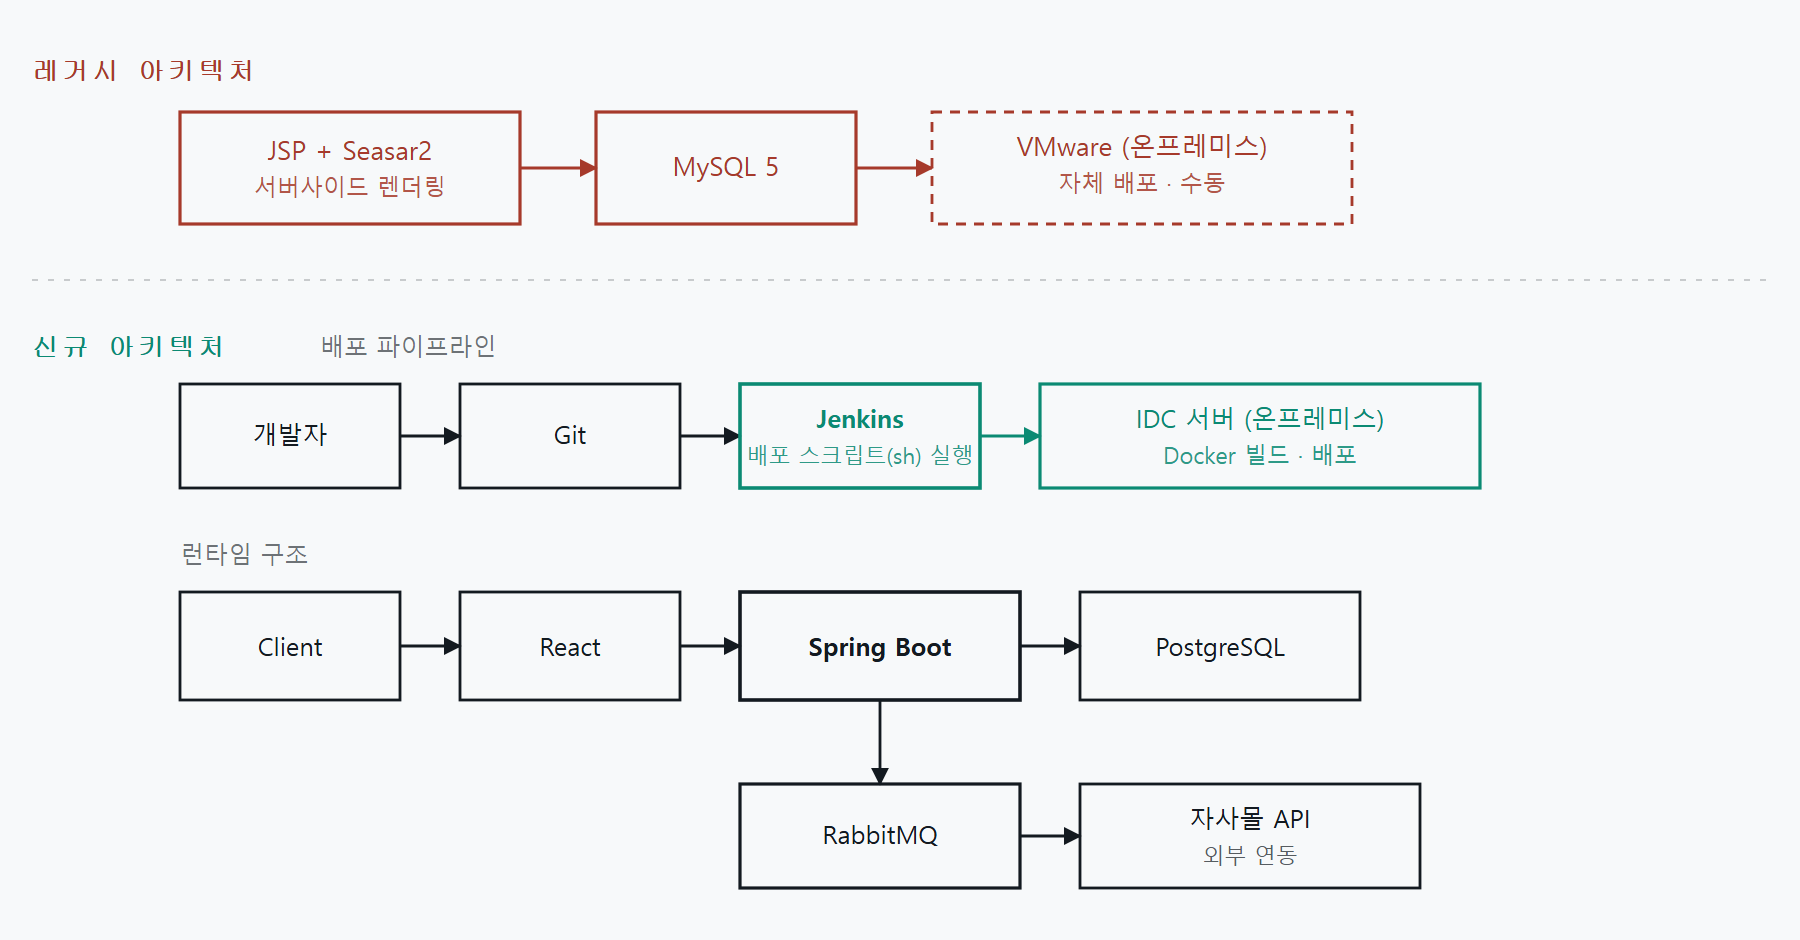
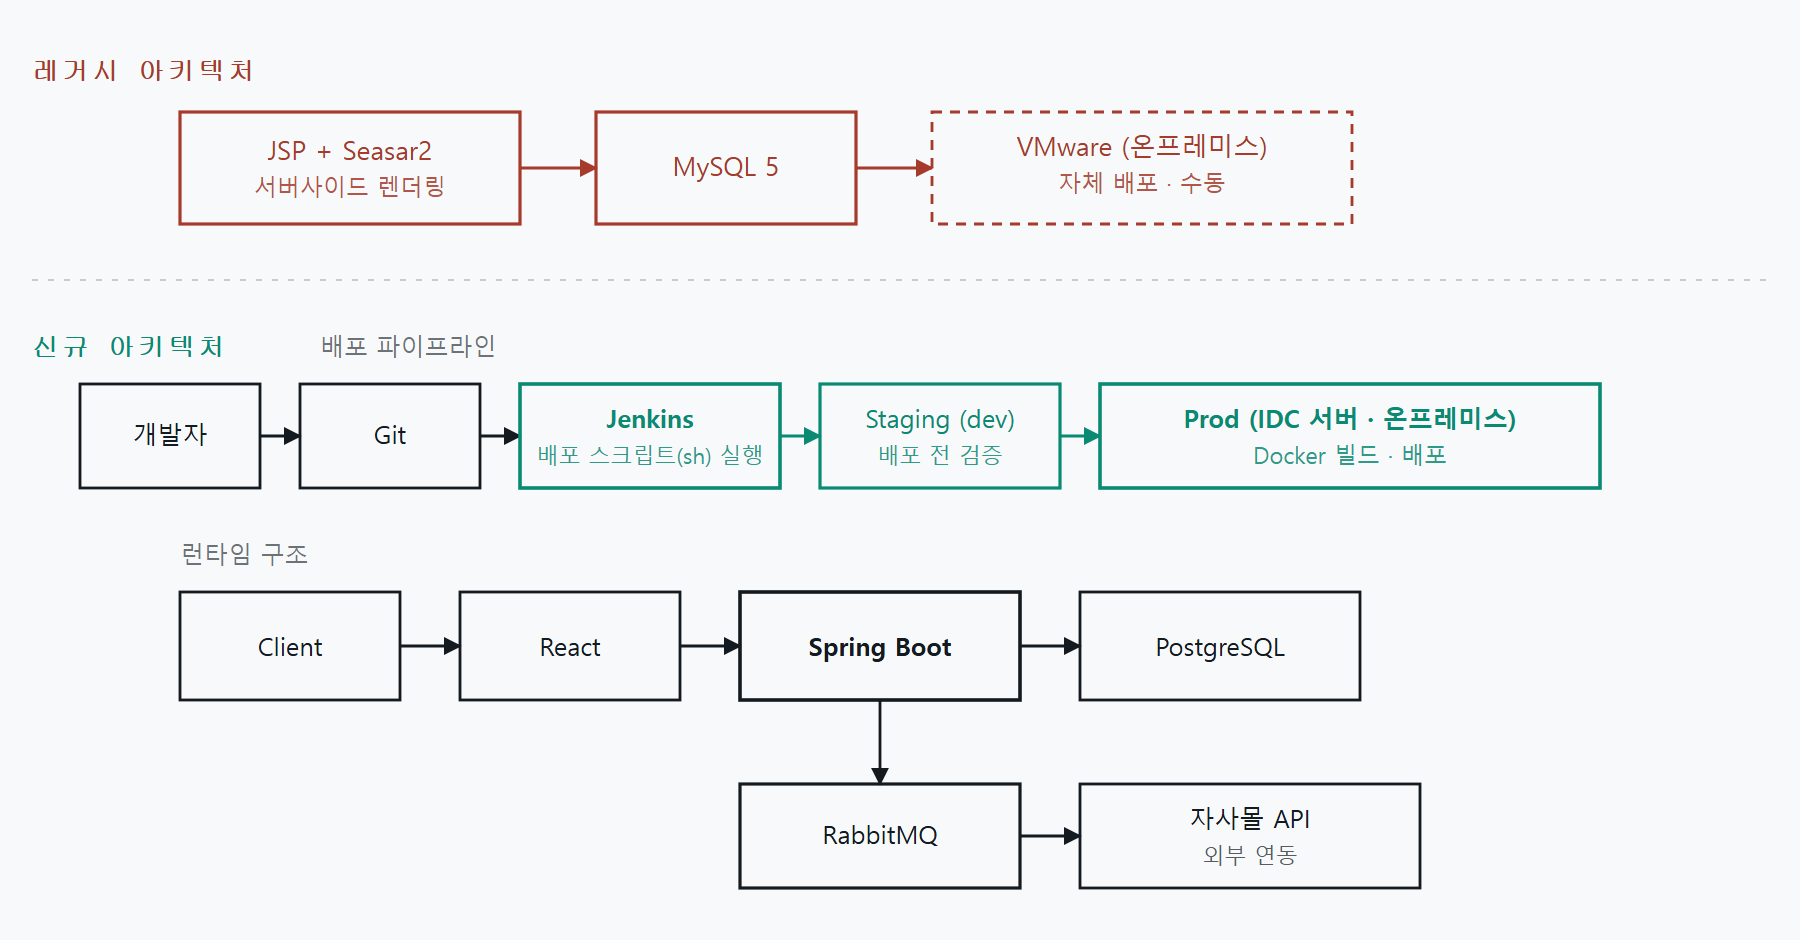
fix(portfolio): 배포 흐름·다이어그램 이해도 개선
- 레거시 마이그레이션 인프라 다이어그램: Jenkins 직행이 아닌 Git→Staging(dev)→Prod(IDC 서버) 배포 파이프라인으로 정정
- 엑셀 업로드 파이프라인/원자적 반영 다이어그램의 비교 차트 제거, 단선 흐름 위주로 단순화

diff --git a/src/portfolio/data.ts b/src/portfolio/data.ts
@@ -116,9 +116,9 @@ export const portfolio = {
       diagram: {
         src: '/projects/legacy-infra-architecture.svg',
         pdfSrc: '/projects/legacy-infra-architecture.png',
-        alt: '종전에는 JSP와 Seasar2가 MySQL 5를 거쳐 VMware 온프레미스 환경에 수동으로 배포됐고, 이후에는 Git과 Jenkins를 거쳐 IDC 온프레미스 서버에 자동 빌드·배포되며, React와 Spring Boot가 PostgreSQL과 통신하고 Spring Boot가 RabbitMQ를 거쳐 자사몰 API와 연동하는 인프라 구성 비교도',
+        alt: '종전에는 JSP와 Seasar2가 MySQL 5를 거쳐 VMware 온프레미스 환경에 수동으로 배포됐고, 이후에는 Git과 Jenkins를 거쳐 Staging(dev)에서 먼저 검증한 뒤 IDC 온프레미스 서버(Prod)에 자동 빌드·배포되며, React와 Spring Boot가 PostgreSQL과 통신하고 Spring Boot가 RabbitMQ를 거쳐 자사몰 API와 연동하는 인프라 구성 비교도',
         caption:
-          '개발부터 배포까지 Git·Jenkins로 자동화하고, 클라이언트 요청 흐름과 외부 연동(RabbitMQ)을 분리했습니다. 인프라는 그대로 온프레미스(VMware→IDC)를 유지하면서, 수동 배포에서 자동 빌드·배포 파이프라인으로 바꿨습니다.',
+          '개발부터 배포까지 Git·Jenkins로 자동화하고, 클라이언트 요청 흐름과 외부 연동(RabbitMQ)을 분리했습니다. 인프라는 그대로 온프레미스(VMware→IDC)를 유지하면서, 수동 배포 대신 Git→Staging(dev) 검증→Prod(IDC 서버) 순으로 넘어가는 자동 빌드·배포 파이프라인으로 바꿨습니다.',
       },
       problem:
         '입사 3개월 차에 타사에서 인계받은 노후 소스코드(Java 1.6·Seasar2·MySQL 5)로 레거시 시스템 개발을 맡았는데, 신규 기능을 추가하려 할 때마다 노후된 프레임워크의 한계에 부딪혔습니다. 이대로는 안 되겠다고 판단해 직접 마이그레이션을 제안하고 PoC로 실현 가능성을 검증한 뒤 전환을 주도했습니다. Seasar2는 서버사이드 렌더링 구조라 화면단을 React로 완전히 분리하는 아키텍처 전환이 필요했고, 기존과 똑같이 동작해야 한다는 제약 속에서 기능 하나 놓치지 않고 옮기는 게 과제였습니다.',
@@ -155,7 +155,7 @@ export const portfolio = {
           items: [
             {
               label: 'Jenkins · Docker 도입',
-              desc: '빌드·배포 로직을 셸 스크립트(sh)에 정리하고 Docker로 감싸, Jenkins가 이 스크립트를 실행해 IDC 서버에 한 번에 빌드·배포하는 파이프라인을 구성했습니다. 수동으로 진행하던 배포가 자동화되며 소요 시간이 20분에서 5분으로 줄었습니다.',
+              desc: '빌드·배포 로직을 셸 스크립트(sh)에 정리하고 Docker로 감싸, Jenkins가 이 스크립트를 실행해 Staging(dev)에 먼저 배포·검증한 뒤 Prod(IDC 서버)로 넘기는 파이프라인을 구성했습니다. 운영 서버로 바로 배포하지 않고 검증 단계를 하나 거치도록 한 것으로, 수동으로 진행하던 배포가 자동화되며 소요 시간이 20분에서 5분으로 줄었습니다.',
             },
           ],
         },
@@ -354,25 +354,25 @@ export const portfolio = {
       org: '유통 상품 관리 시스템 고도화',
       techStack: ['Java', 'Spring Boot', 'PostgreSQL'],
       summary: [
-        '스프레드시트를 통째로 여는 대신 행 단위로 읽고 1,000건씩 묶어 저장해 메모리 사용량을 줄였습니다.',
+        '엑셀 파일을 통째로 여는 대신 행 단위로 읽고 1,000건씩 묶어 저장해 메모리 사용량을 줄였습니다.',
         '부분 성공을 허용하지 않는 전량 원복 정책으로 반쯤 갱신된 상태를 근본적으로 차단했습니다.',
         '검증을 반영 앞으로 옮긴 앞단 게이트로, 값 하나의 오류가 전체를 무산시키는 정책의 대가를 상쇄했습니다.',
       ],
       problem:
-        '엑셀 업로드는 마스터 데이터를 반영하는 작업이라 부분 성공을 허용하면 반쯤 갱신된 상태가 남고, 무엇이 반영됐는지 알 수 없어 재실행도 위험했습니다. 그렇다고 스프레드시트를 통째로 객체로 열면 행 수에 비례해 메모리를 먹는 구조가 됩니다. 유실 없는 전량 반영과 메모리 사용량을 동시에 잡는 파이프라인을 설계하는 게 과제였습니다.',
+        '대량의 상품 데이터를 엑셀로 업로드할 때 두 가지 문제가 있었습니다. 업로드된 엑셀 파일을 통째로 메모리에 올려서 처리하다 보니 행 수가 많을수록 메모리를 많이 썼고, 업로드 중간에 일부 행만 저장된 채로 실패하면 어디까지 반영됐는지 알 수 없어 재실행도 위험했습니다. 메모리를 적게 쓰면서도, 실패하면 안전하게 되돌릴 수 있는 업로드 파이프라인을 만드는 게 과제였습니다.',
       solutionGroups: [
         {
           title: '메모리 사용량 최소화',
           items: [
             {
               label: '행 단위 읽기, 묶음 단위 쓰기',
-              desc: '스프레드시트를 통째로 객체로 열면 행 수에 비례해 메모리를 먹습니다. 대신 행이 읽힐 때마다 콜백을 받아 처리하고, 저장은 1,000건씩 묶어 넣어 순서를 보존하면서 진행률도 표시합니다. 다만 저장 전 전체 검증이 필요해 파싱 결과 자체는 아직 전량 메모리에 모이는데, 이 지점을 숨기지 않고 그대로 남겨둔 개선 여지로 표시했습니다.',
+              desc: '이전에는 엑셀 파일 전체를 한 번에 객체로 만들어 메모리에 올렸는데, 행 수가 많을수록 메모리를 더 많이 썼습니다. 그래서 파일을 한 번에 다 읽지 않고, 행을 하나씩 읽을 때마다 그 행의 값을 정의된 컬럼에 맞게 매칭하고 형식을 변환하는 처리를 바로 진행하도록 바꿨습니다. 저장도 한 건씩 하지 않고 1,000건씩 묶어서 진행해, 순서를 유지하면서 진행률도 보여줍니다. 다만 저장 전에 전체 데이터를 한 번 더 검증해야 해서 그 순간에는 파싱 결과 전체가 메모리에 모이는데, 이 부분은 숨기지 않고 앞으로 개선할 지점으로 남겨뒀습니다.',
               diagram: {
                 src: '/projects/excel-pipeline-memory.svg',
                 pdfSrc: '/projects/excel-pipeline-memory.png',
-                alt: '엑셀 업로드 파이프라인 5단계와 각 단계에서 동시에 메모리에 올라가는 양. 읽기 단계는 행 하나씩이라 얕지만 파싱 결과 누적부터 저장까지는 전량을 보유한다',
+                alt: '엑셀 업로드 파이프라인 5단계 — 파일 수신·저장, 행 단위 읽기, 헤더 매칭·변환, 검증, 1,000건 묶음 저장 순서로 진행된다',
                 caption:
-                  '읽기와 쓰기는 이미 묶음 단위입니다. 남은 것은 가운데 구간 — 읽으면서 바로 저장하면 보유량이 상수가 되지만, 지금은 엑셀 순서 보존과 저장 전 전체 검증 때문에 파싱 결과를 전량 들고 있습니다.',
+                  '파일을 통째로 읽지 않고 행 단위로 읽어 바로 처리하고, 저장만 1,000건씩 묶어서 진행률을 보여줍니다.',
               },
             },
           ],
@@ -382,13 +382,13 @@ export const portfolio = {
           items: [
             {
               label: '전량 반영 아니면 전량 원복',
-              desc: '부분 성공을 허용하면 반쯤 갱신된 상태가 남고, 재실행해도 무엇이 이미 반영됐는지 알 수 없습니다. 그래서 전량 원복 정책으로 고정했는데, 그 대가로 값 하나의 타입 오류가 전량을 무산시키게 됩니다. 검증을 반영보다 앞(트랜잭션 밖)에 두는 앞단 게이트로 이 대가를 상쇄해, 해당 행만 반려하고 한 행 때문에 전량이 무산되지 않게 했습니다. 원복 전에는 실패 사유를 로그로 남겨 원인을 추적할 수 있게 했습니다.',
+              desc: '예를 들어 1,000행 중 700행까지 저장되고 701번째 행에서 실패하면, 어디까지 반영됐는지 알 수 없어 재실행 시 이미 저장된 700행이 중복으로 다시 들어갈 위험이 있습니다. 그래서 하나라도 실패하면 지금까지 반영한 것까지 전부 되돌려 업로드 전 상태로 완전히 되돌아가는 전량 원복 정책으로 고정했습니다. 이러면 몇 번을 재실행해도 항상 "0건 반영" 상태에서 다시 시작하니 안전합니다. 다만 그 대가로 999개 행이 멀쩡해도 1개 행의 타입 오류 때문에 999개까지 전부 롤백됩니다. 그래서 저장을 시도하기 전에 타입·형식을 미리 검증하는 단계를 앞에 둬서, 문제 있는 행은 저장 시도 자체를 하지 않고 그 행만 반려하도록 했습니다. 저장(트랜잭션)에는 이미 검증을 통과한 행만 들어가므로, 가장 흔한 실패 원인은 트랜잭션에 들어가기도 전에 걸러지고 전량 원복 정책은 그대로 유지됩니다. 원복 전에는 실패 사유를 로그로 남겨 원인을 추적할 수 있게 했습니다.',
               diagram: {
                 src: '/projects/excel-atomic-revert.svg',
                 pdfSrc: '/projects/excel-atomic-revert.png',
-                alt: '부분 갱신을 허용하면 반쯤 갱신된 상태가 남고 전량 원복은 직전 상태를 보존한다는 비교. 아래에는 값 하나의 타입 오류가 전량을 무산시키던 문제를 앞단 검증 게이트로 상쇄한 흐름과, 원복 전에 실패 사유를 로그로 내보내는 처리',
+                alt: '입력된 행이 앞단 검증 게이트를 거쳐 통과한 행만 원자적 반영 단계로 넘어가고, 검증에 걸린 행은 그 행만 반려되어 나머지 반영에 영향을 주지 않는다는 흐름도',
                 caption:
-                  '전량 원복은 몇 번을 다시 올려도 결과가 같다는 장점이 있지만, 값 하나의 오류가 전체를 막는 대가가 있습니다. 검증을 반영 앞으로 옮겨 해당 행만 반려하게 하면, 원자성을 유지하면서도 그 대가를 줄일 수 있습니다.',
+                  '원자적 반영은 여전히 "전부 아니면 전무"지만, 그 안에 이미 검증을 통과한 행만 들어가기 때문에 타입 오류 같은 흔한 실패 원인은 트랜잭션에 들어가기 전에 걸러집니다.',
               },
             },
           ],
@@ -465,7 +465,7 @@ export const portfolio = {
         '업로드 화면과 저장 프로시저에 흩어져 있던 이중 판정을 하나로 모아 10만 행도 질의 1회로 처리하게 했습니다.',
       ],
       problem:
-        '엑셀 업로드 파이프라인은 "컬럼은 항상 같은 위치에 있다", "검증을 통과하면 저장도 안전하다", "판정은 한 곳만 맞으면 된다"는 가정 위에 있었고, 그 가정이 깨지며 상품코드 전량 유실(106행×4회 반려)·브랜드코드 매칭 실패(1,114행)·등록 판정 불일치(24행 반려) 세 갈래 사고로 이어졌습니다. 이 가정들을 걷어내고 재발하지 않는 구조로 다시 짜는 게 과제였습니다.',
+        '엑셀 업로드 파이프라인에는 서로 다른 원인의 사고가 반복됐습니다. 양식의 컬럼 위치가 바뀌면 이를 인식하지 못해 상품코드가 통째로 유실됐고(106행×4회 반려), 검증은 통과한 값도 저장 시 형식이 바뀌며 브랜드코드 매칭이 실패했으며(1,114행), 화면과 저장 로직이 서로 다른 기준으로 등록 여부를 판단해 결론이 어긋나는 사고도 있었습니다(24행 반려). 이런 사고가 재발하지 않는 구조로 파이프라인을 다시 짜는 게 과제였습니다.',
       solutionGroups: [
         {
           title: '위치 의존성 제거',
